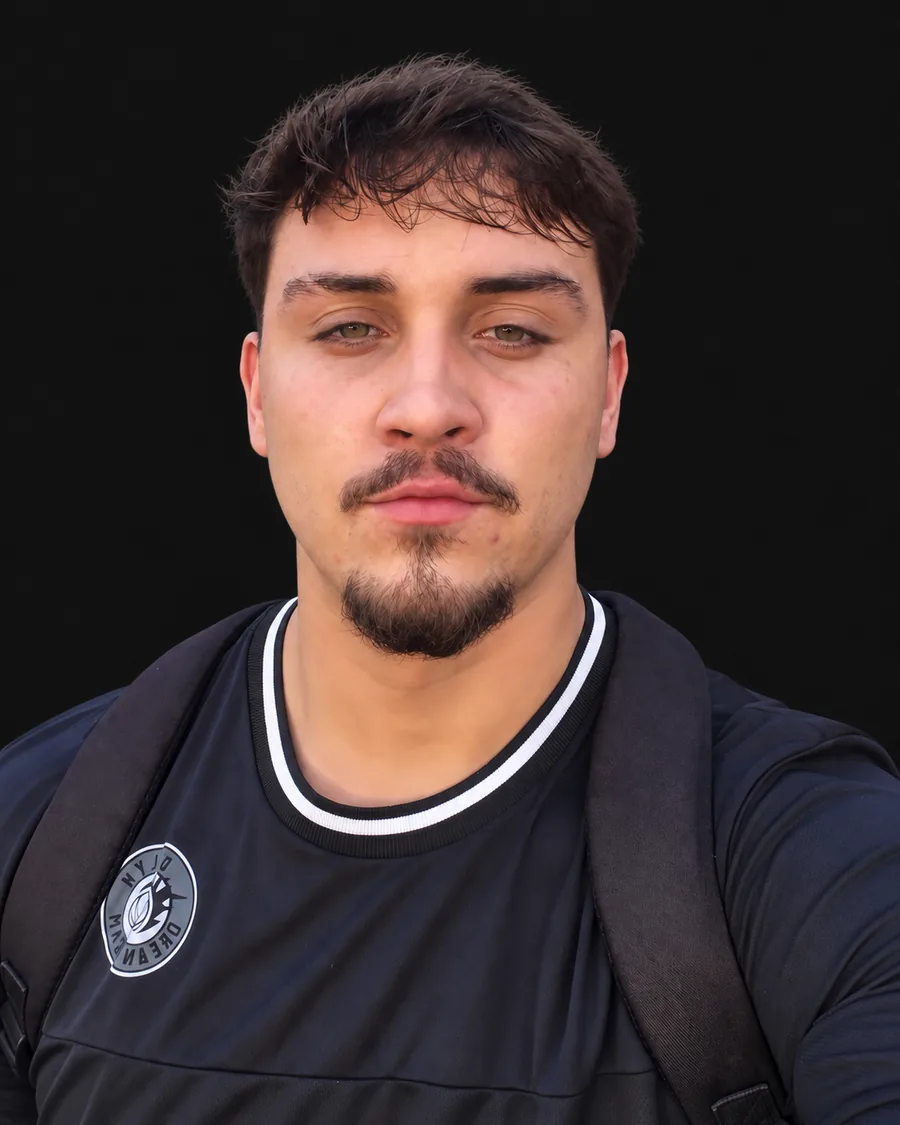
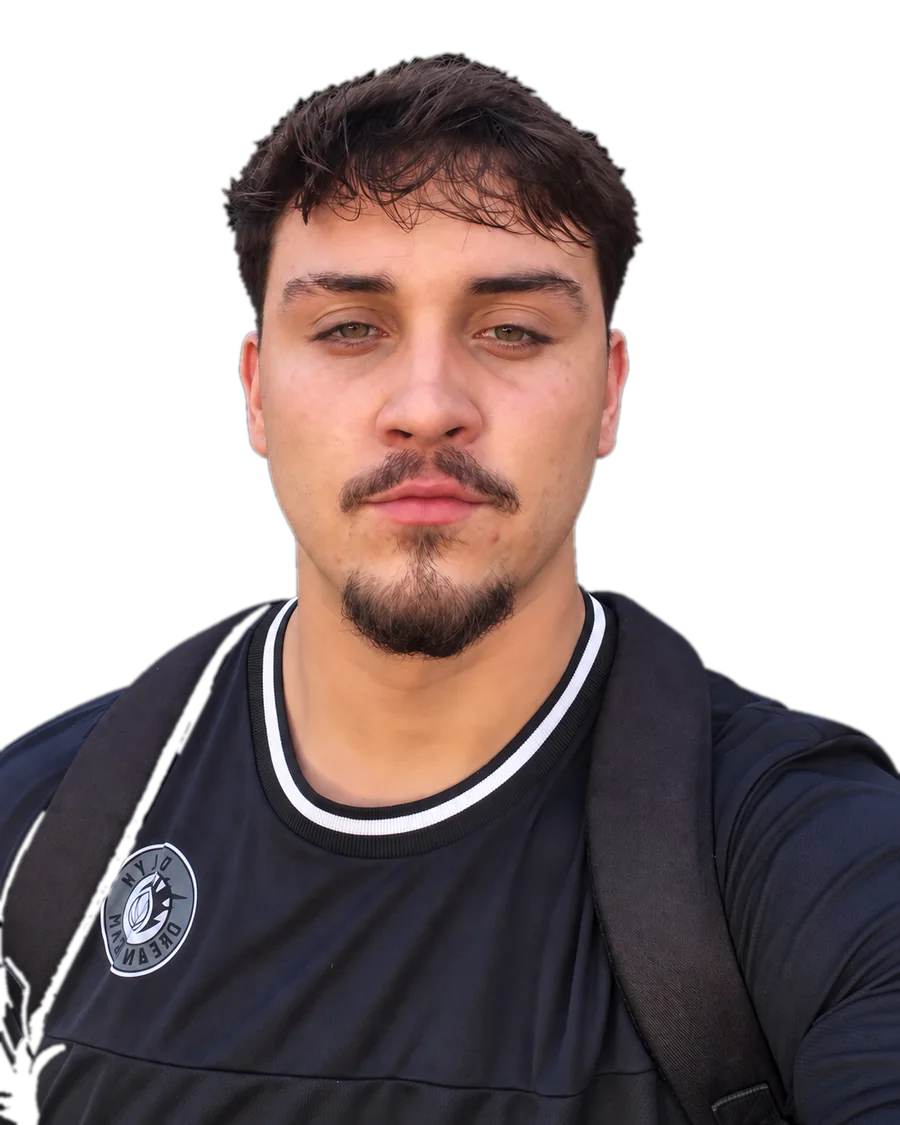
Deixa o fundo do retrato transparente
O retrato tinha um retângulo preto que não casava com a grade e o
brilho do fundo. Agora o fundo é removido (só a área conectada às
bordas, com contorno suavizado) e a foto se integra à página, com um
esfumado apenas na base.

diff --git a/src/components/site/sections.tsx b/src/components/site/sections.tsx
@@ -87,7 +87,7 @@ export function HomeSection({ locale, d }: Props) {
           height={1125}
           priority
           sizes="(min-width: 1024px) 30vw, 0px"
-          className="relative w-full [mask-image:radial-gradient(ellipse_60%_56%_at_50%_44%,black_48%,transparent_100%)] grayscale-[15%] contrast-[1.05]"
+          className="relative w-full [mask-image:linear-gradient(to_bottom,black_78%,transparent)] grayscale-[15%] contrast-[1.05]"
         />
       </figure>
       </div>
